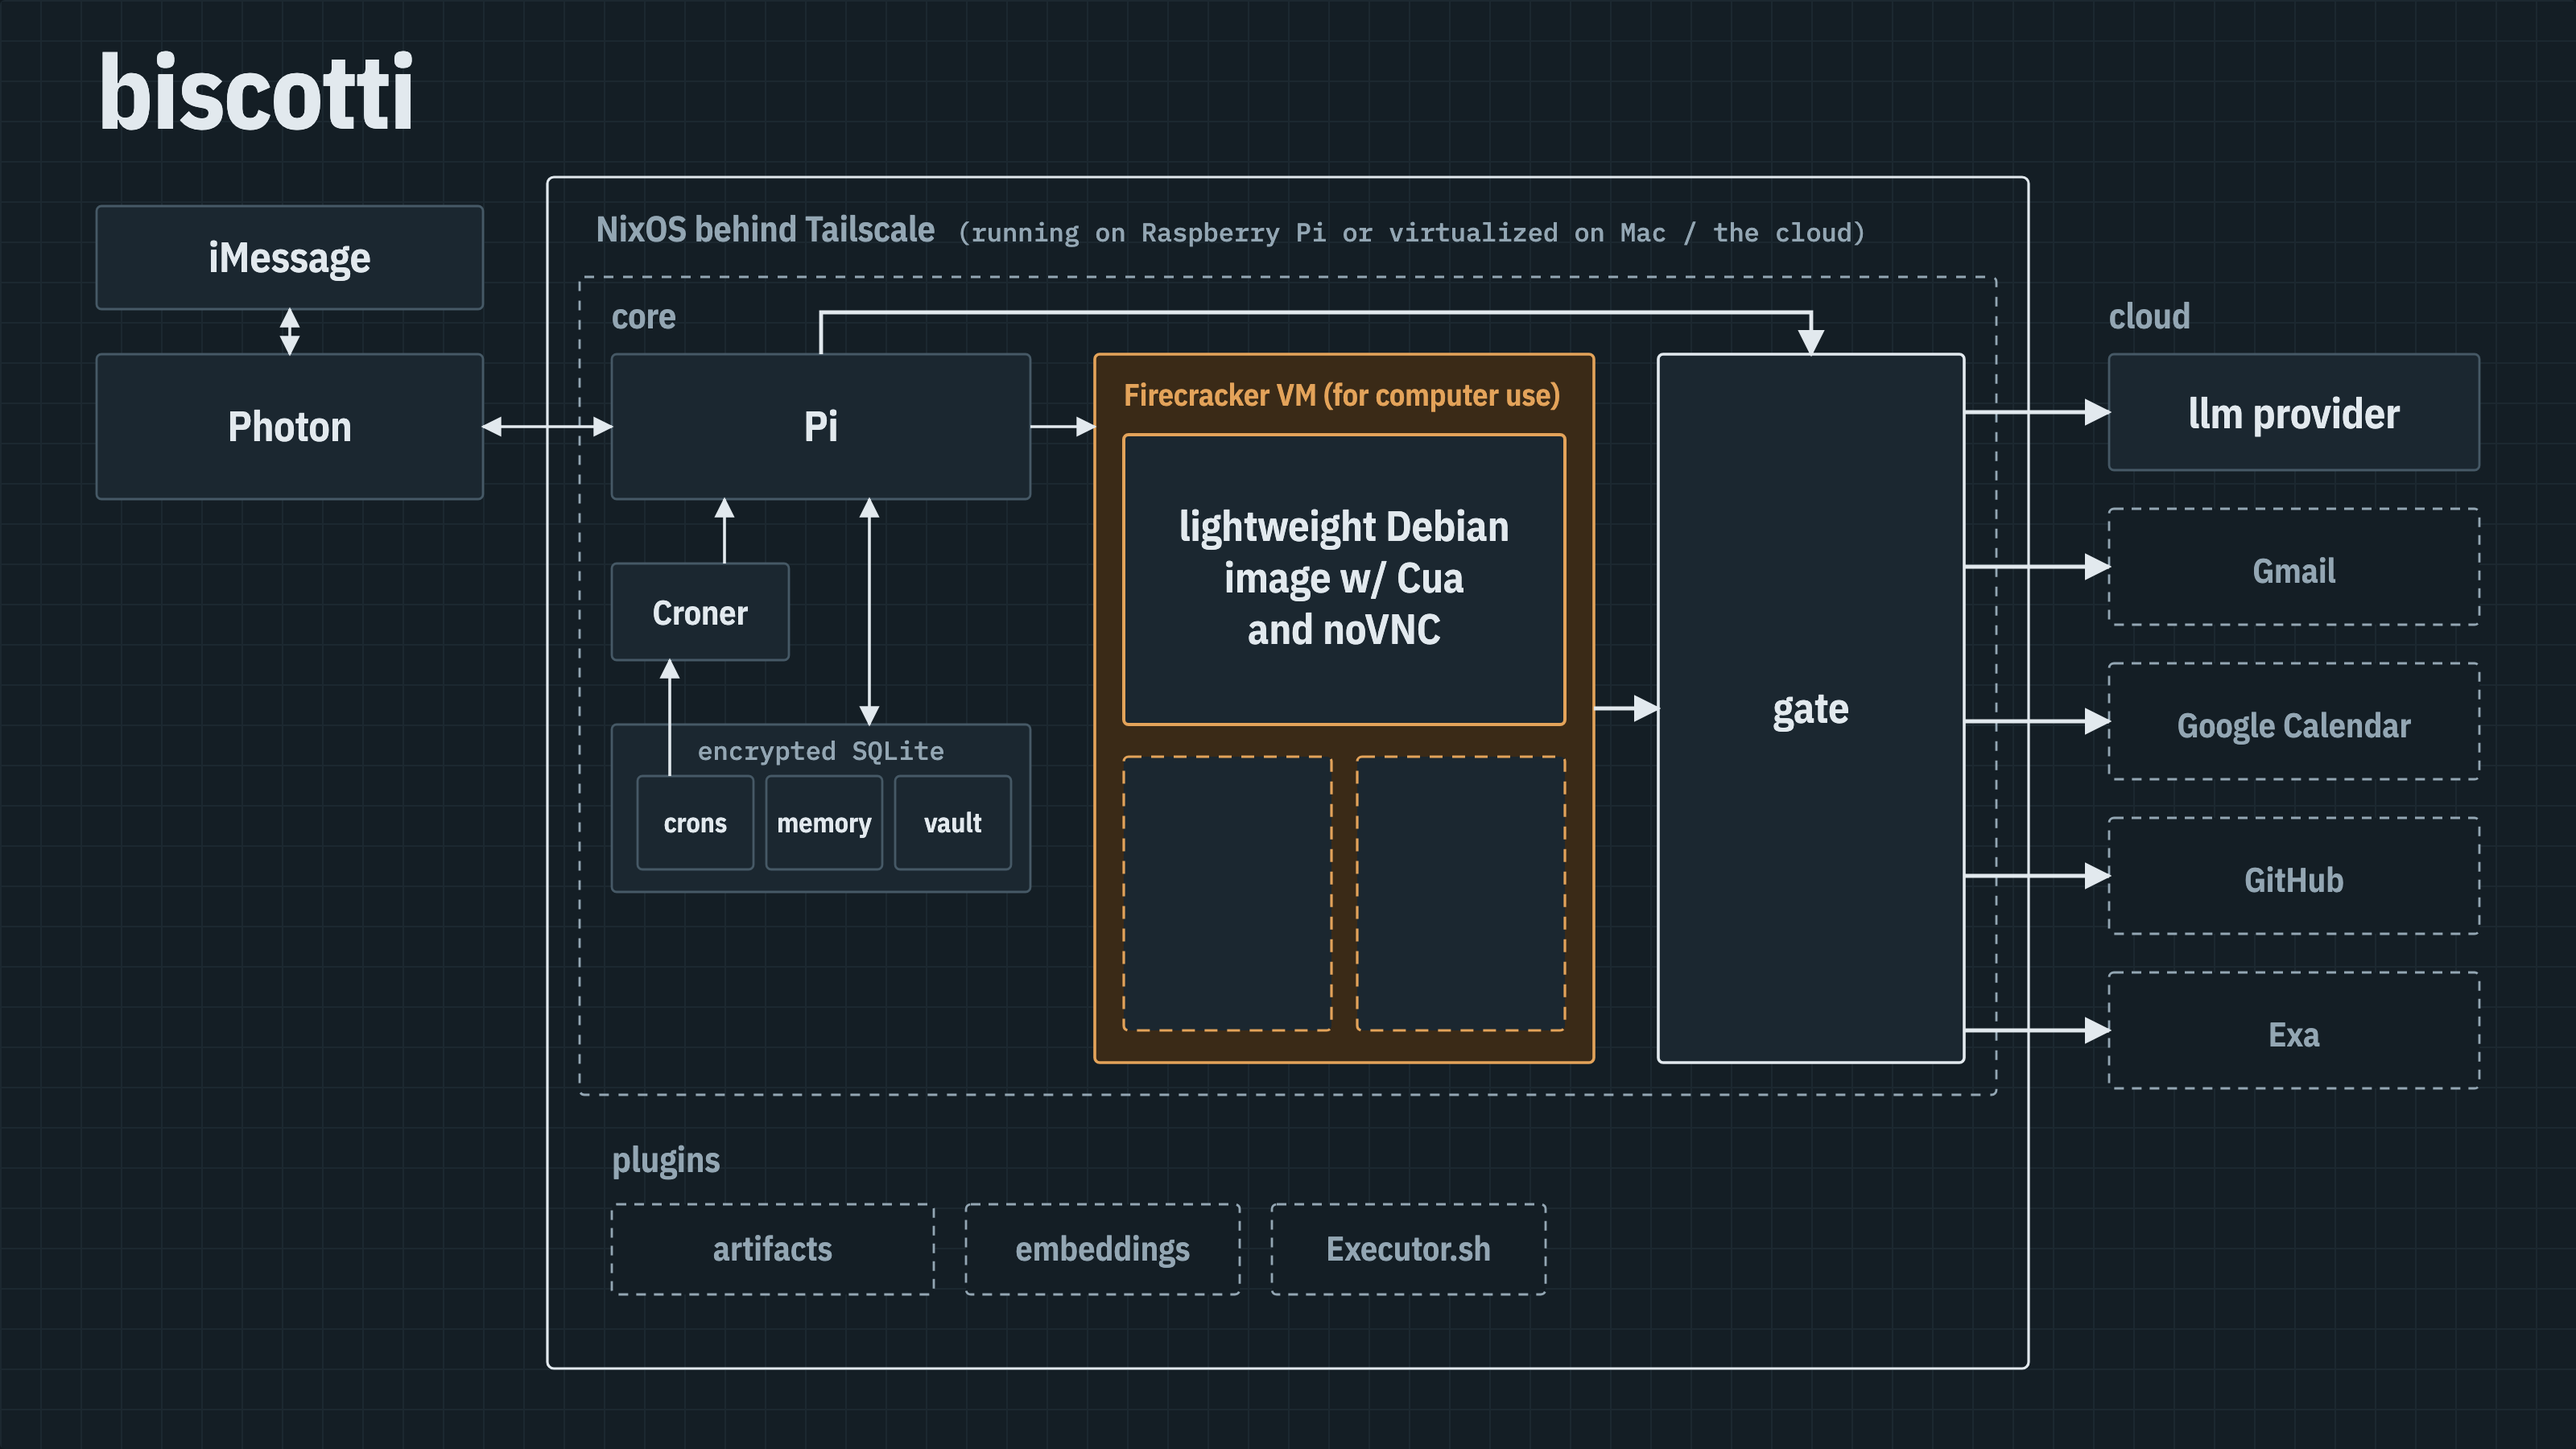
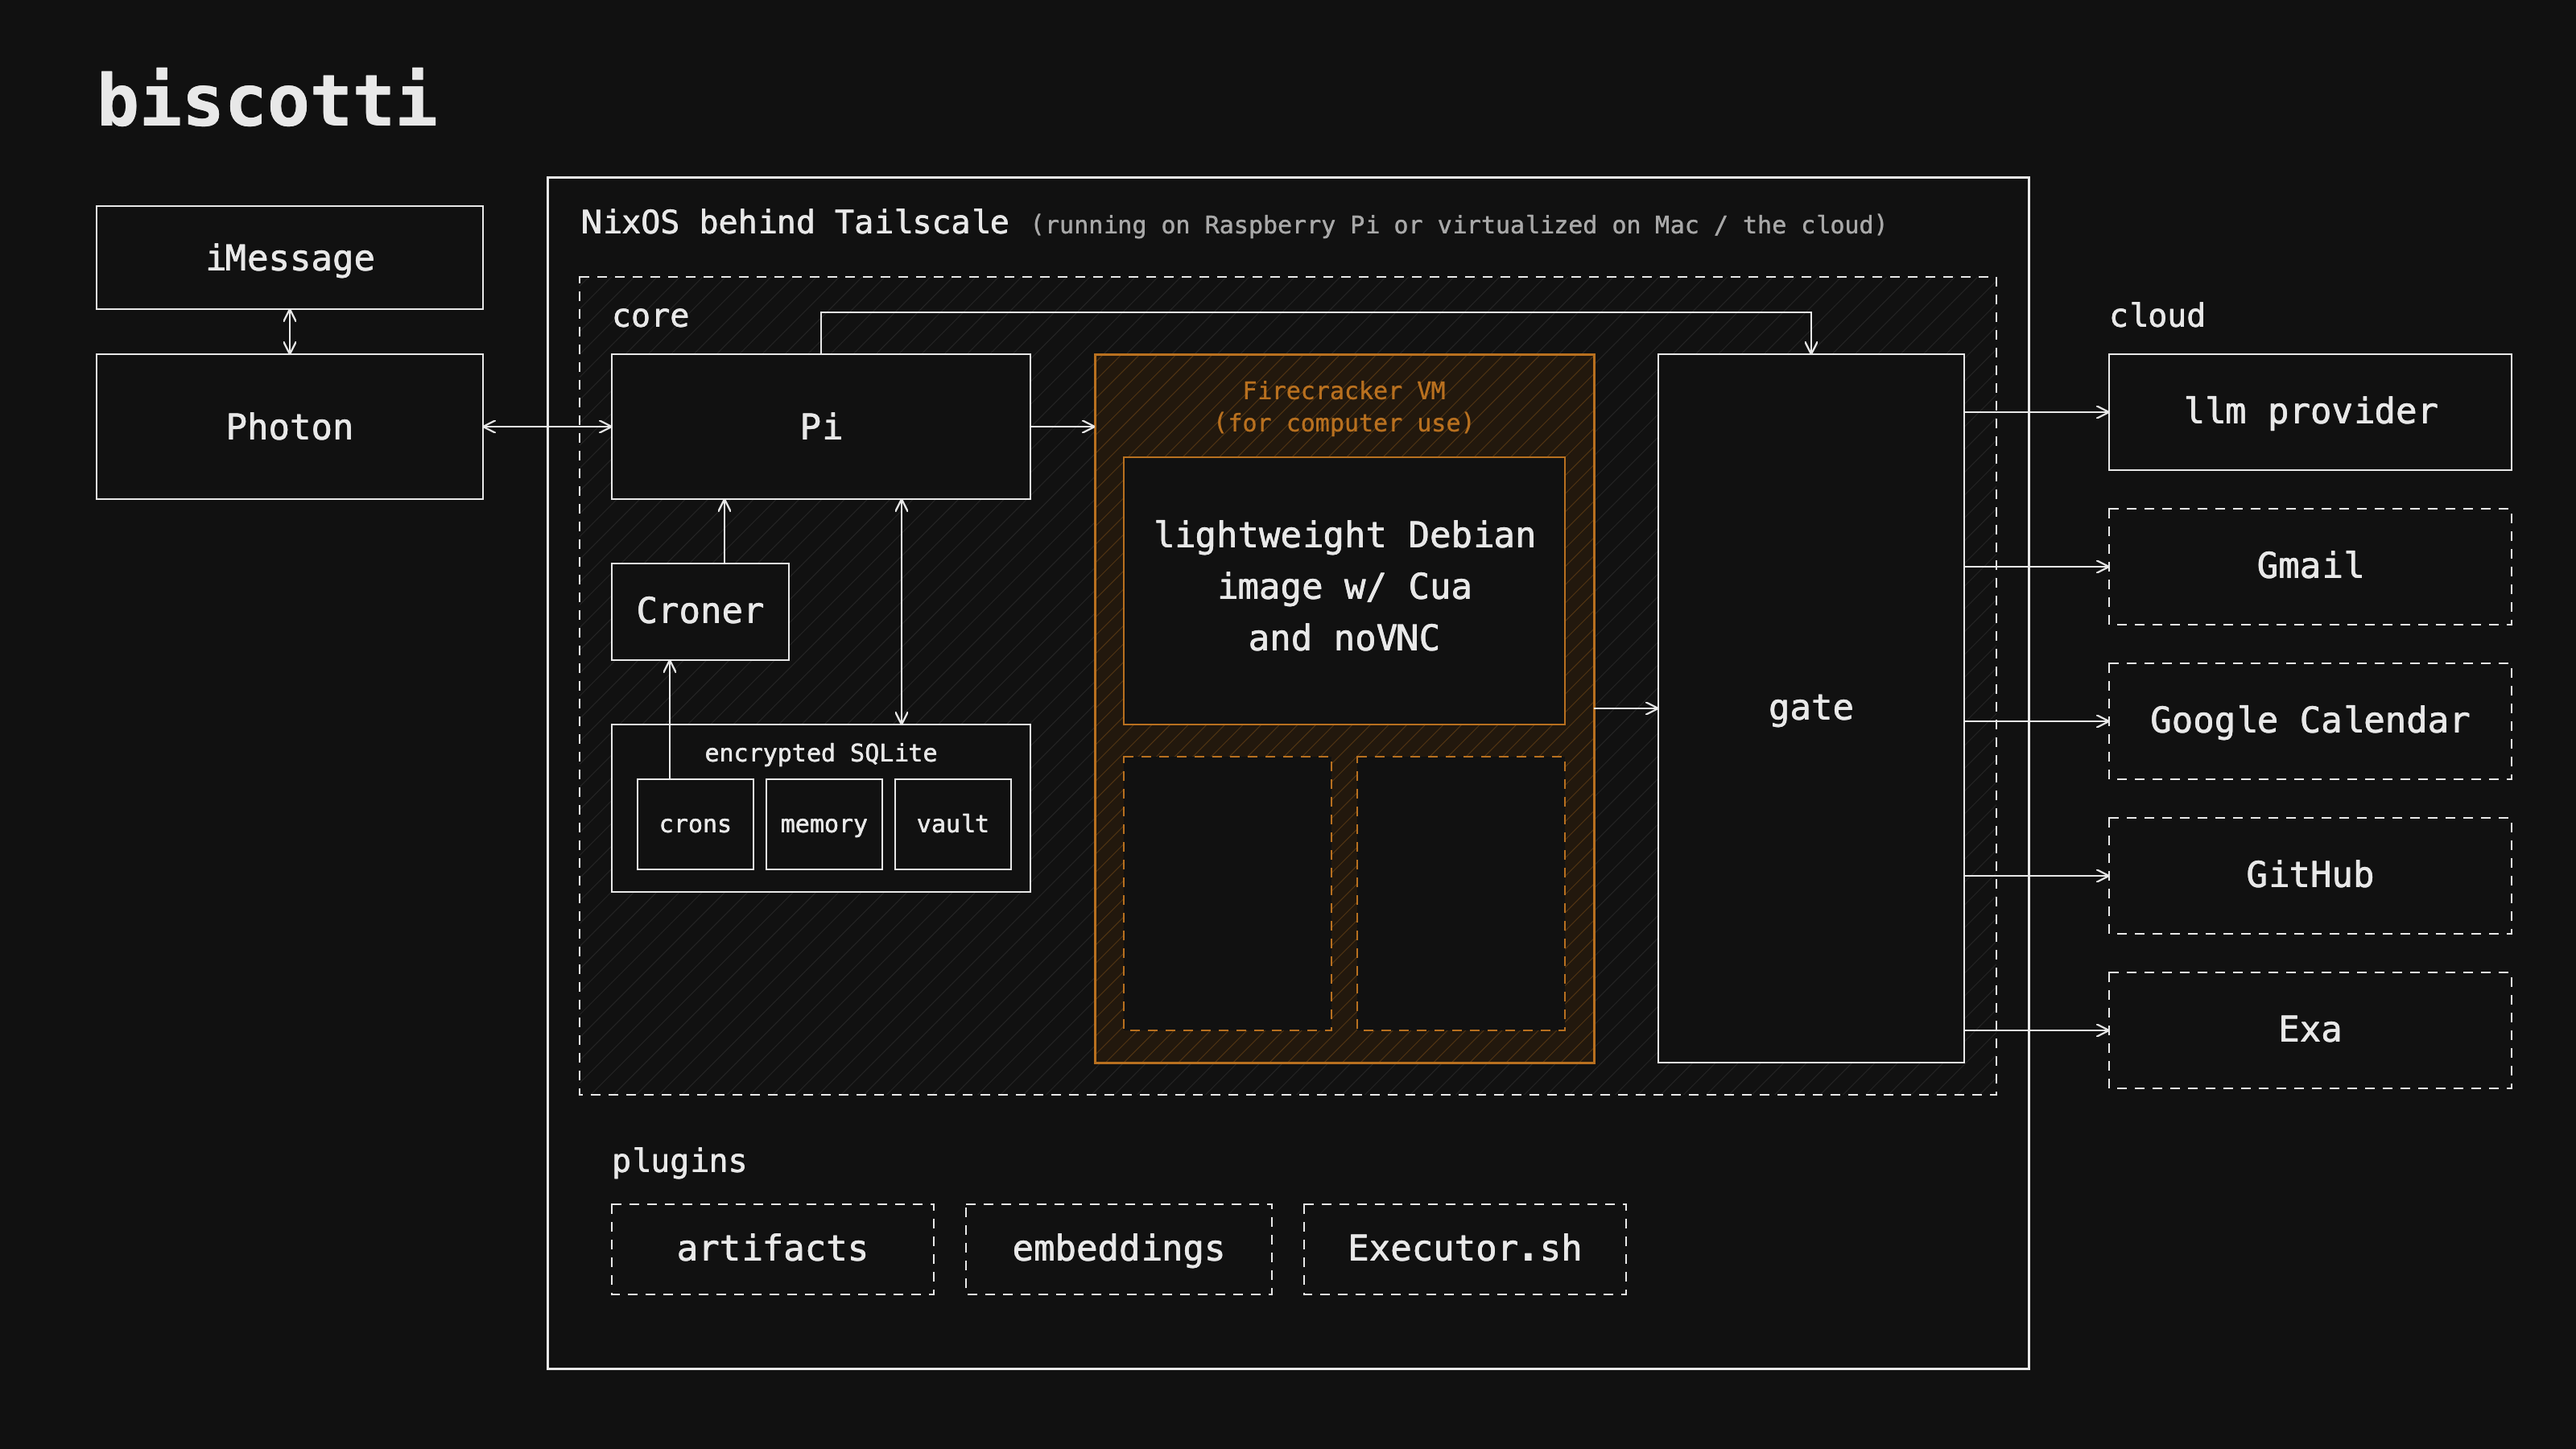
site: svg architecture diagram, light and dark

diff --git a/installers/site/src/App.svelte b/installers/site/src/App.svelte
@@ -1,5 +1,5 @@
 <script>
-  import architecture from "../../../docs/architecture.txt?raw";
+  import architecture from "../../../docs/architecture.svg?url";
   const version = __VERSION__;
   const biscotti = String.raw`
         _.-~~~~~~~~~~~~~~~~~~~~-._
@@ -27,7 +27,13 @@
 
   <details open>
     <summary>Design</summary>
-    <pre class="diagram" aria-label="biscotti's architecture">{architecture}</pre>
+    <img
+      class="demo arch"
+      src={architecture}
+      width="1600"
+      height="900"
+      alt="biscotti's architecture: iMessage through Photon to Pi on NixOS behind Tailscale. The core holds Pi, Croner, an encrypted SQLite store (crons, memory, vault), Firecracker VMs for computer use (Debian with Cua and noVNC) and the gate, through which every call to the llm provider, Gmail, Google Calendar, GitHub and Exa goes. Plugins: artifacts, embeddings, Executor.sh."
+    />
   </details>
 
   <details open>

diff --git a/installers/site/src/app.css b/installers/site/src/app.css
@@ -27,4 +27,4 @@ details:last-of-type { border-bottom: 1px solid #000; }
 summary { cursor: pointer; font-weight: 600; }
 details > :not(summary) { margin: 12px 0 0; }
 .demo { display: block; width: 100%; max-width: 520px; height: auto; border: 1px solid #000; }
-.diagram { font-size: 11px; line-height: 1.25; overflow-x: auto; }
+.demo.arch { max-width: 100%; border: 0; }
